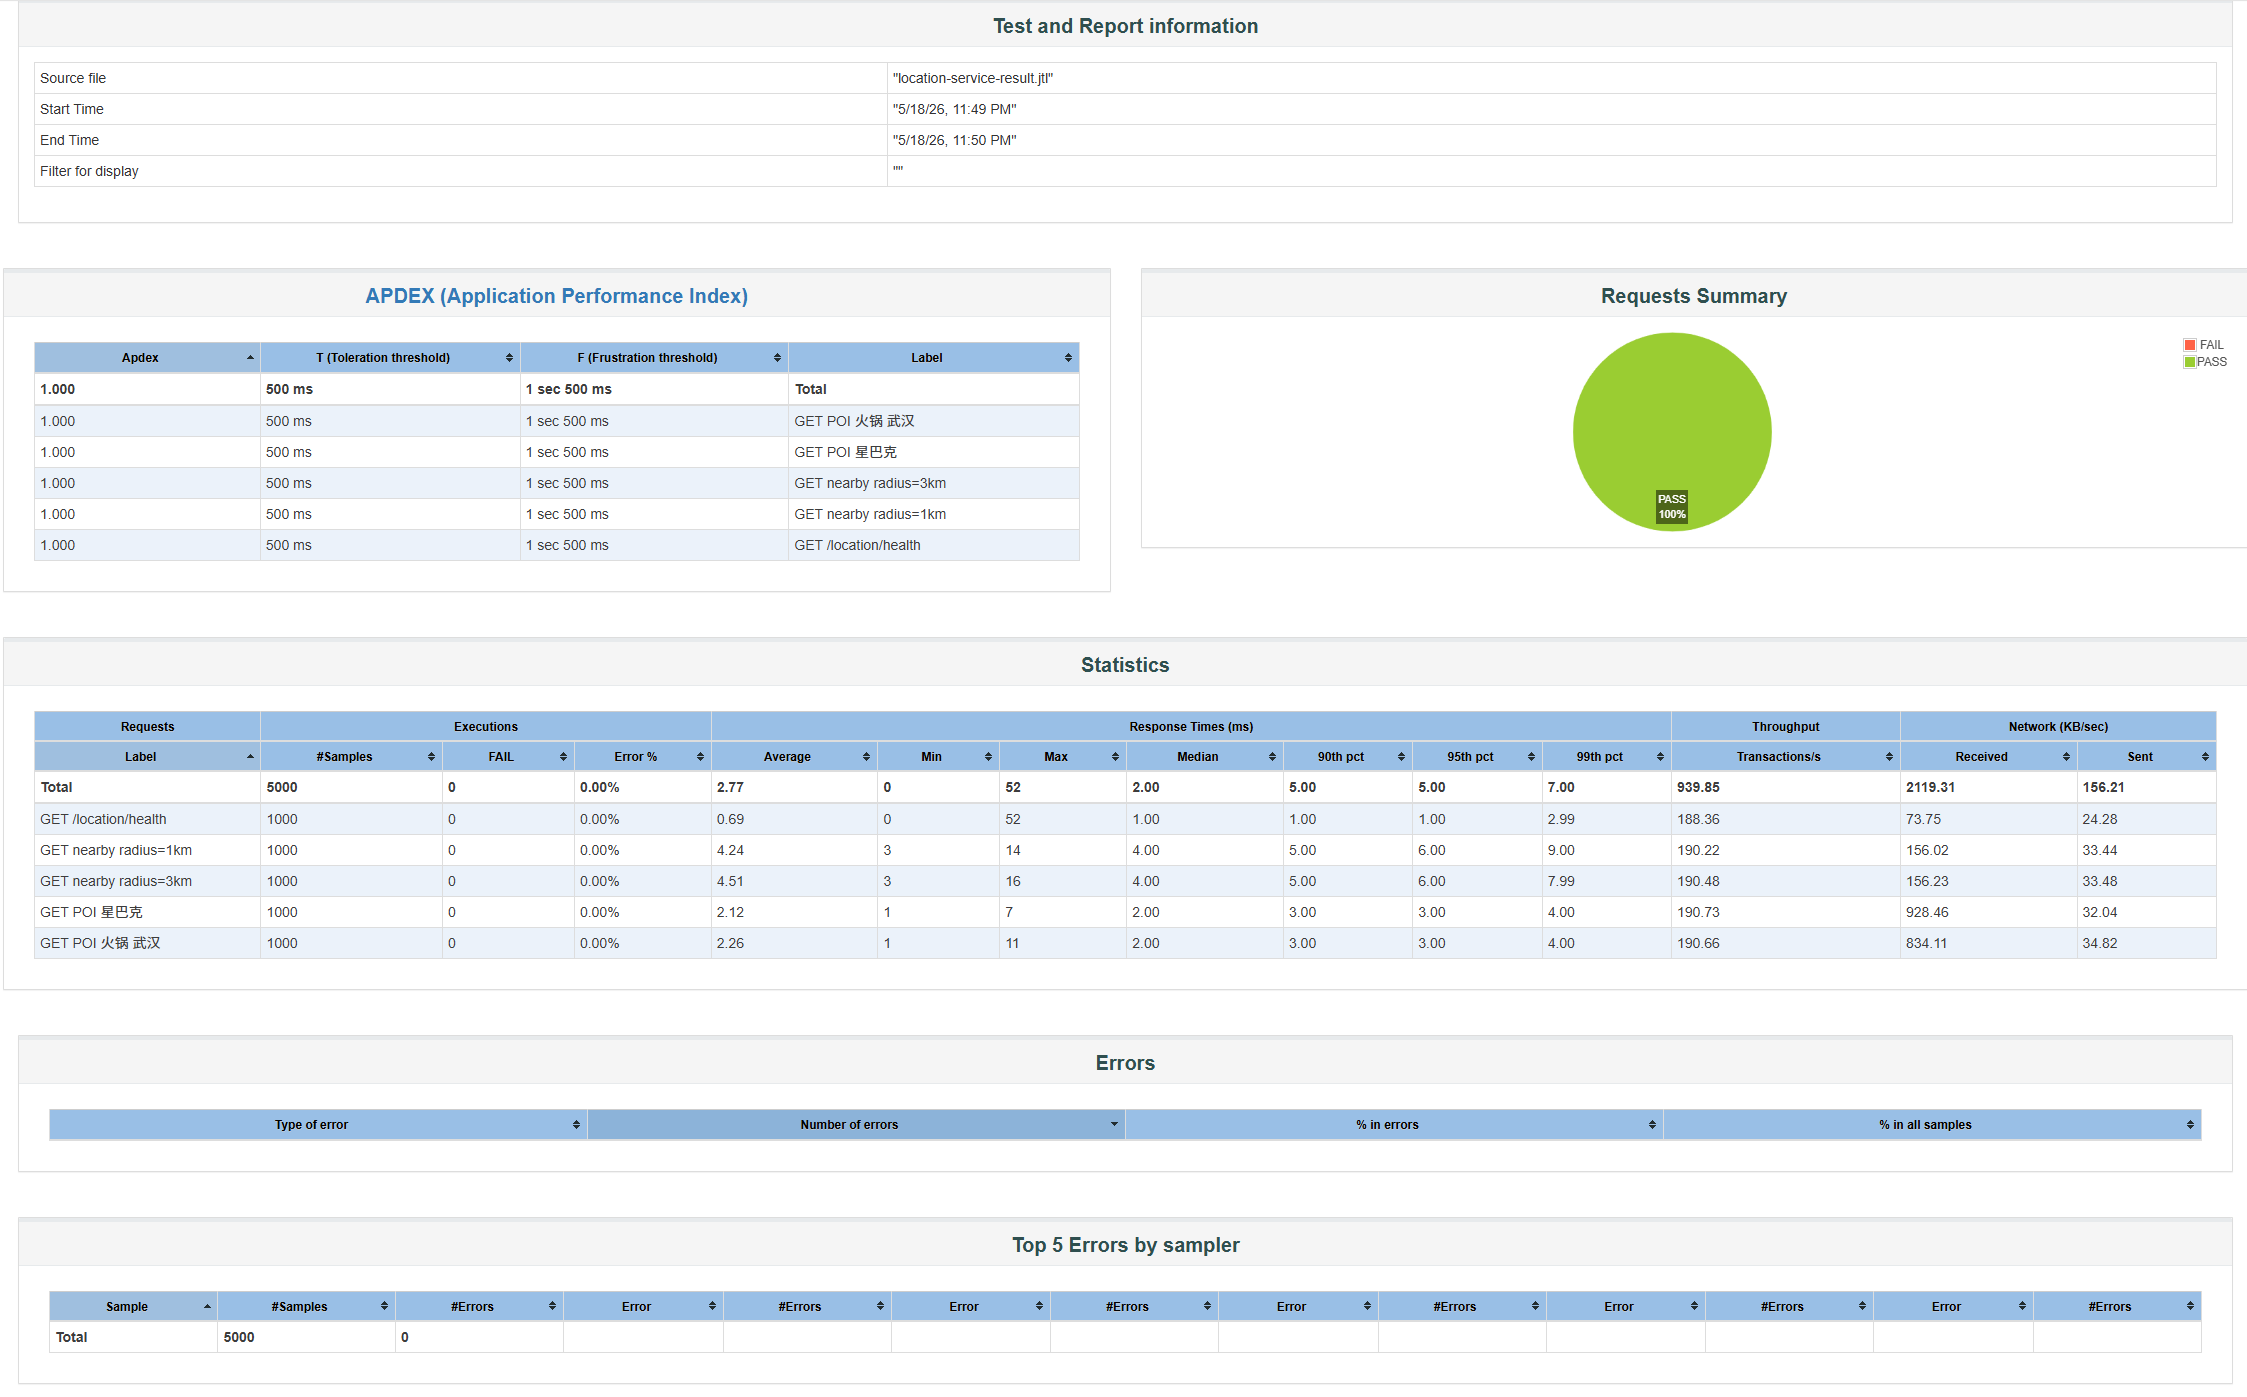
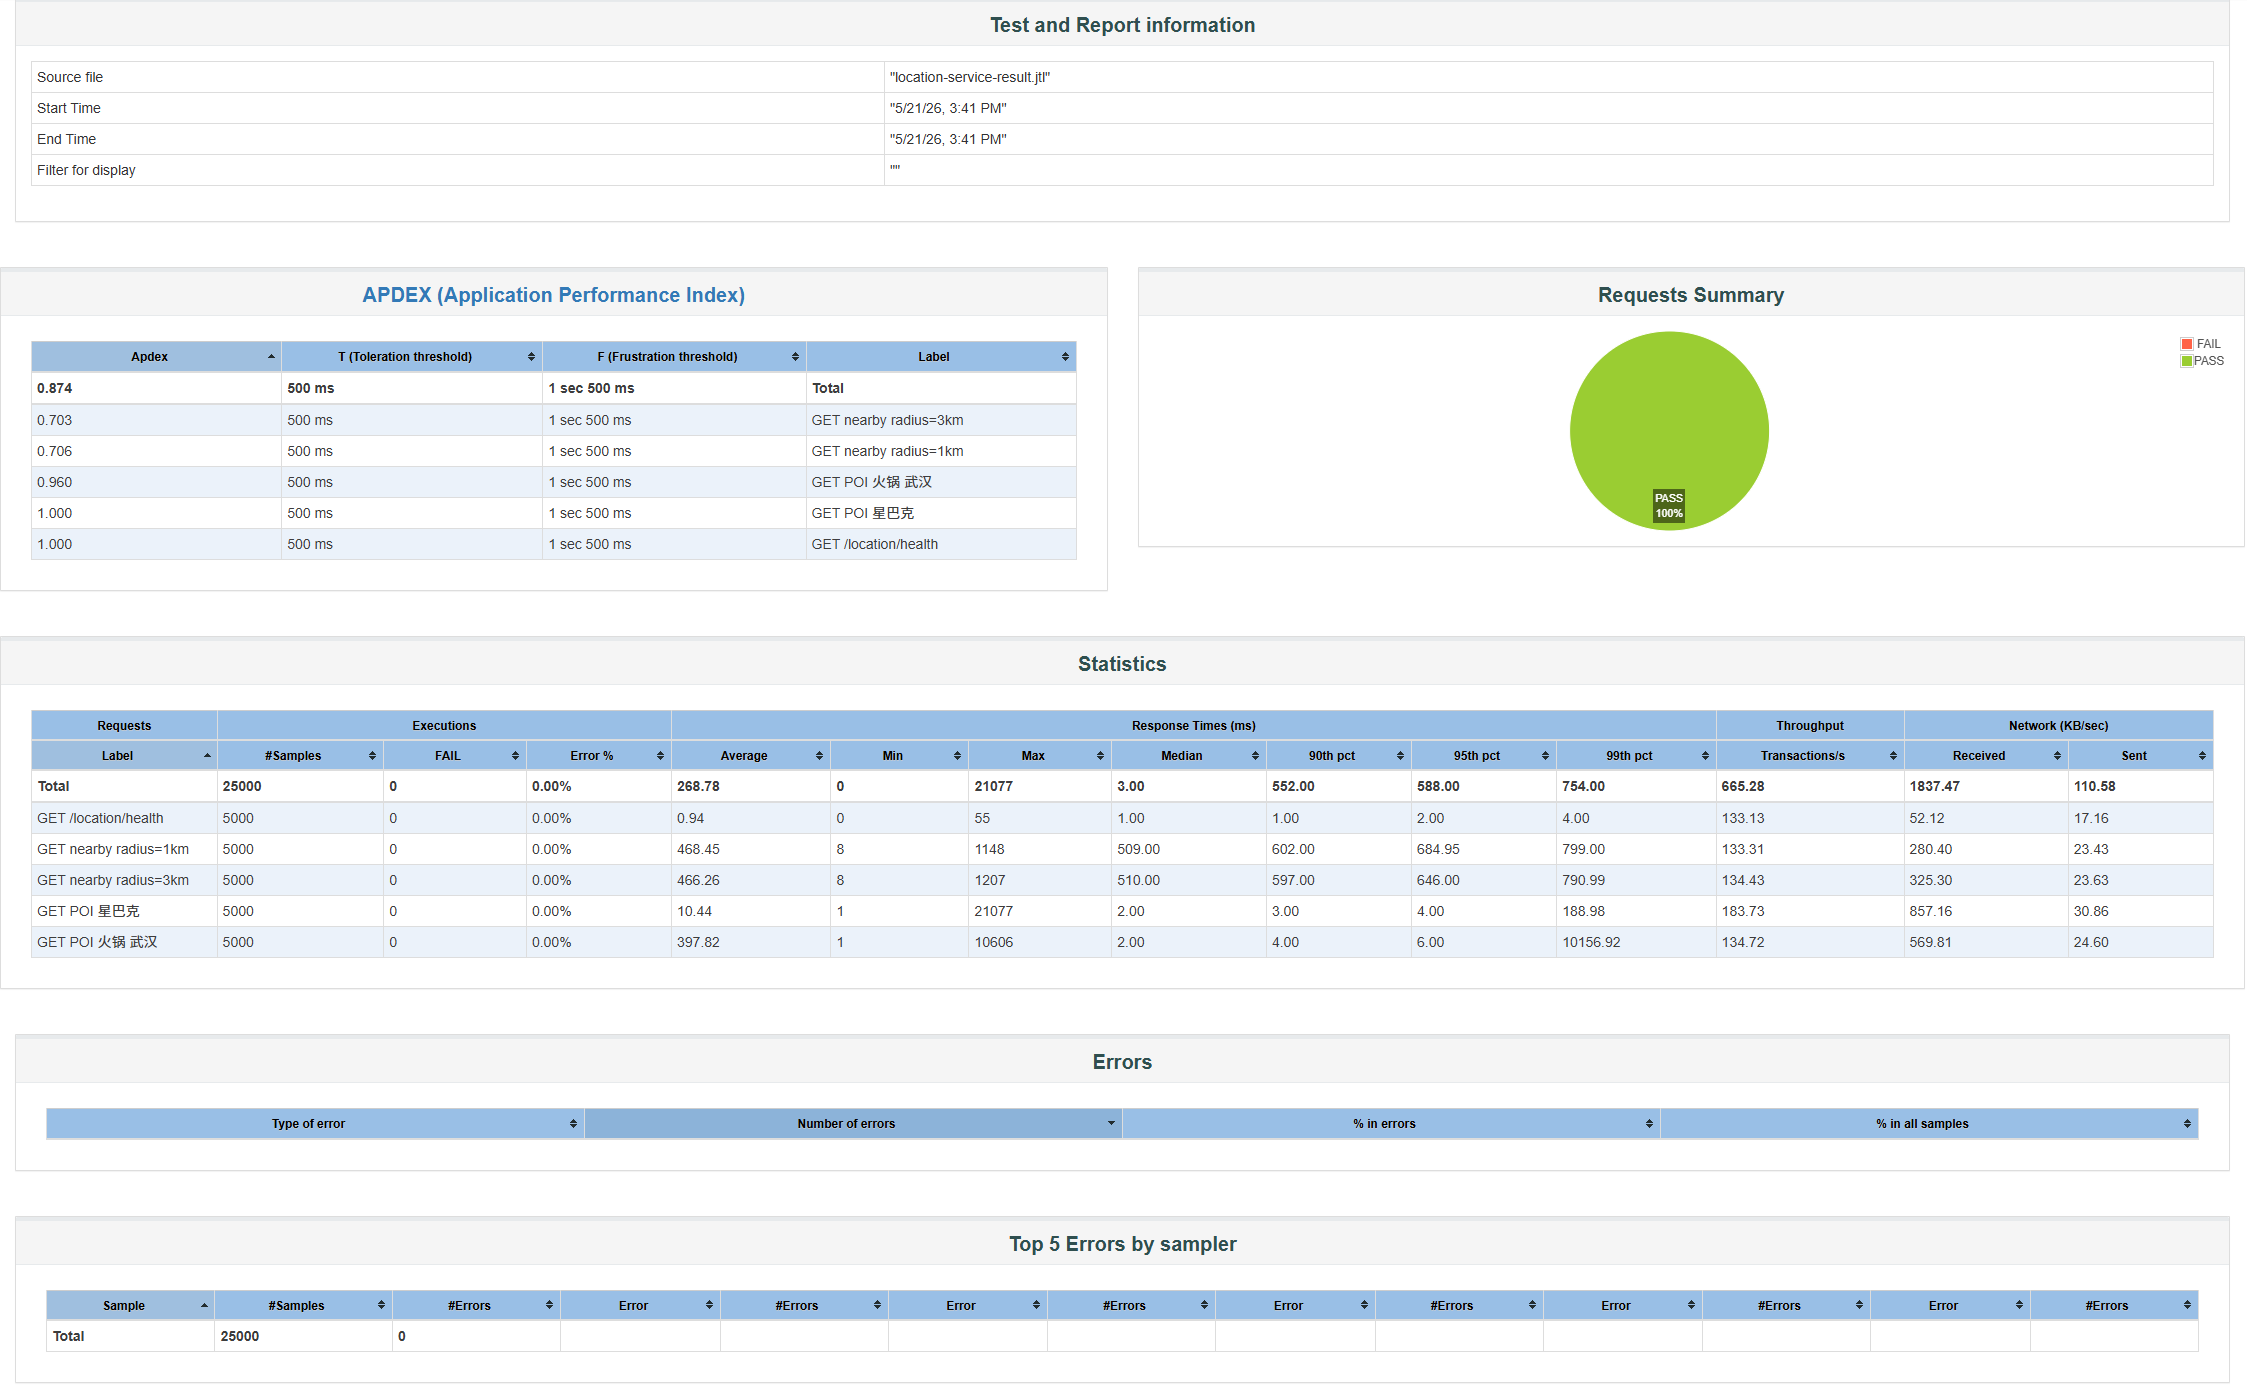
location模块jmeter重新测试200线程

diff --git a/jmeter/locationservice-report/content/js/dashboard.js b/jmeter/locationservice-report/content/js/dashboard.js
@@ -173,7 +173,7 @@ $(document).ready(function() {
     });
 
     // Creates APDEX table
-    createTable($("#apdexTable"), {"supportsControllersDiscrimination": true, "overall": {"data": [1.0, 500, 1500, "Total"], "isController": false}, "titles": ["Apdex", "T (Toleration threshold)", "F (Frustration threshold)", "Label"], "items": [{"data": [1.0, 500, 1500, "GET POI 火锅 武汉"], "isController": false}, {"data": [1.0, 500, 1500, "GET POI 星巴克"], "isController": false}, {"data": [1.0, 500, 1500, "GET nearby radius=3km"], "isController": false}, {"data": [1.0, 500, 1500, "GET nearby radius=1km"], "isController": false}, {"data": [1.0, 500, 1500, "GET /location/health"], "isController": false}]}, function(index, item){
+    createTable($("#apdexTable"), {"supportsControllersDiscrimination": true, "overall": {"data": [0.87388, 500, 1500, "Total"], "isController": false}, "titles": ["Apdex", "T (Toleration threshold)", "F (Frustration threshold)", "Label"], "items": [{"data": [0.96, 500, 1500, "GET POI 火锅 武汉"], "isController": false}, {"data": [0.9996, 500, 1500, "GET POI 星巴克"], "isController": false}, {"data": [0.7034, 500, 1500, "GET nearby radius=3km"], "isController": false}, {"data": [0.7064, 500, 1500, "GET nearby radius=1km"], "isController": false}, {"data": [1.0, 500, 1500, "GET /location/health"], "isController": false}]}, function(index, item){
         switch(index){
             case 0:
                 item = item.toFixed(3);
@@ -187,7 +187,7 @@ $(document).ready(function() {
     }, [[0, 0]], 3);
 
     // Create statistics table
-    createTable($("#statisticsTable"), {"supportsControllersDiscrimination": true, "overall": {"data": ["Total", 5000, 0, 0.0, 2.767000000000005, 0, 52, 2.0, 5.0, 5.0, 7.0, 939.8496240601504, 2119.3135426456765, 156.21328712406014], "isController": false}, "titles": ["Label", "#Samples", "FAIL", "Error %", "Average", "Min", "Max", "Median", "90th pct", "95th pct", "99th pct", "Transactions/s", "Received", "Sent"], "items": [{"data": ["GET POI 火锅 武汉", 1000, 0, 0.0, 2.2639999999999985, 1, 11, 2.0, 3.0, 3.0, 4.0, 190.65776930409913, 834.1080046472831, 34.817385605338416], "isController": false}, {"data": ["GET POI 星巴克", 1000, 0, 0.0, 2.1249999999999973, 1, 7, 2.0, 3.0, 3.0, 4.0, 190.7304978065993, 928.4619075433911, 32.03676330345222], "isController": false}, {"data": ["GET nearby radius=3km", 1000, 0, 0.0, 4.511999999999992, 3, 16, 4.0, 5.0, 6.0, 7.990000000000009, 190.47619047619045, 156.2295386904762, 33.482142857142854], "isController": false}, {"data": ["GET nearby radius=1km", 1000, 0, 0.0, 4.244999999999993, 3, 14, 4.0, 5.0, 6.0, 9.0, 190.22256039566292, 156.02002389670915, 33.437559444550125], "isController": false}, {"data": ["GET /location/health", 1000, 0, 0.0, 0.6890000000000001, 0, 52, 1.0, 1.0, 1.0, 2.990000000000009, 188.35938971557732, 73.74711574684498, 24.280702580523638], "isController": false}]}, function(index, item){
+    createTable($("#statisticsTable"), {"supportsControllersDiscrimination": true, "overall": {"data": ["Total", 25000, 0, 0.0, 268.78240000000125, 0, 21077, 3.0, 552.0, 588.0, 754.0, 665.2828782798446, 1837.4696256785885, 110.57729090159135], "isController": false}, "titles": ["Label", "#Samples", "FAIL", "Error %", "Average", "Min", "Max", "Median", "90th pct", "95th pct", "99th pct", "Transactions/s", "Received", "Sent"], "items": [{"data": ["GET POI 火锅 武汉", 5000, 0, 0.0, 397.81579999999957, 1, 10606, 2.0, 4.0, 6.0, 10156.919999999998, 134.72005173249988, 569.8119044952714, 24.60219694724363], "isController": false}, {"data": ["GET POI 星巴克", 5000, 0, 0.0, 10.440200000000026, 1, 21077, 2.0, 3.0, 4.0, 188.97999999999956, 183.72896303373264, 857.1649415282576, 30.86072425957228], "isController": false}, {"data": ["GET nearby radius=3km", 5000, 0, 0.0, 466.2638000000007, 8, 1207, 510.0, 597.0, 646.0, 790.9899999999998, 134.43028445448192, 325.29568886278696, 23.630323439264394], "isController": false}, {"data": ["GET nearby radius=1km", 5000, 0, 0.0, 468.4488000000006, 8, 1148, 509.0, 602.0, 684.9499999999998, 799.0, 133.30844908950328, 280.4027623177007, 23.433125816514252], "isController": false}, {"data": ["GET /location/health", 5000, 0, 0.0, 0.9433999999999996, 0, 55, 1.0, 1.0, 2.0, 4.0, 133.1309742524696, 52.11900827409005, 17.161414649732407], "isController": false}]}, function(index, item){
         switch(index){
             // Errors pct
             case 3:
@@ -228,7 +228,7 @@ $(document).ready(function() {
     }, [[1, 1]]);
 
         // Create top5 errors by sampler
-    createTable($("#top5ErrorsBySamplerTable"), {"supportsControllersDiscrimination": false, "overall": {"data": ["Total", 5000, 0, "", "", "", "", "", "", "", "", "", ""], "isController": false}, "titles": ["Sample", "#Samples", "#Errors", "Error", "#Errors", "Error", "#Errors", "Error", "#Errors", "Error", "#Errors", "Error", "#Errors"], "items": [{"data": [], "isController": false}, {"data": [], "isController": false}, {"data": [], "isController": false}, {"data": [], "isController": false}, {"data": [], "isController": false}]}, function(index, item){
+    createTable($("#top5ErrorsBySamplerTable"), {"supportsControllersDiscrimination": false, "overall": {"data": ["Total", 25000, 0, "", "", "", "", "", "", "", "", "", ""], "isController": false}, "titles": ["Sample", "#Samples", "#Errors", "Error", "#Errors", "Error", "#Errors", "Error", "#Errors", "Error", "#Errors", "Error", "#Errors"], "items": [{"data": [], "isController": false}, {"data": [], "isController": false}, {"data": [], "isController": false}, {"data": [], "isController": false}, {"data": [], "isController": false}]}, function(index, item){
         return item;
     }, [[0, 0]], 0);
 

diff --git a/jmeter/locationservice-report/content/pages/CustomsGraphs.html b/jmeter/locationservice-report/content/pages/CustomsGraphs.html
@@ -112,11 +112,11 @@
                                 </tr>
                                 <tr>
                                     <td>Start Time:</td>
-                                    <td>"5/18/26, 11:49 PM"</td>
+                                    <td>"5/21/26, 3:41 PM"</td>
                                 </tr>
                                 <tr>
                                     <td>End Time:</td>
-                                    <td>"5/18/26, 11:50 PM"</td>
+                                    <td>"5/21/26, 3:41 PM"</td>
                                 </tr>
                                     <tr>
                                         <td>Filter for display:</td>

diff --git a/jmeter/locationservice-report/content/pages/OverTime.html b/jmeter/locationservice-report/content/pages/OverTime.html
@@ -160,11 +160,11 @@
                             </tr>
                             <tr>
                                 <td>Start Time:</td>
-                                <td>"5/18/26, 11:49 PM"</td>
+                                <td>"5/21/26, 3:41 PM"</td>
                             </tr>
                             <tr>
                                 <td>End Time:</td>
-                                <td>"5/18/26, 11:50 PM"</td>
+                                <td>"5/21/26, 3:41 PM"</td>
                             </tr>
                                 <tr>
                                     <td>Filter for display:</td>

diff --git a/jmeter/locationservice-report/content/pages/ResponseTimes.html b/jmeter/locationservice-report/content/pages/ResponseTimes.html
@@ -129,11 +129,11 @@
                             </tr>
                             <tr>
                                 <td>Start Time:</td>
-                                <td>"5/18/26, 11:49 PM"</td>
+                                <td>"5/21/26, 3:41 PM"</td>
                             </tr>
                             <tr>
                                 <td>End Time:</td>
-                                <td>"5/18/26, 11:50 PM"</td>
+                                <td>"5/21/26, 3:41 PM"</td>
                             </tr>
                                 <tr>
                                     <td>Filter for display:</td>

diff --git a/jmeter/locationservice-report/content/pages/Throughput.html b/jmeter/locationservice-report/content/pages/Throughput.html
@@ -129,11 +129,11 @@
                             </tr>
                             <tr>
                                 <td>Start Time:</td>
-                                <td>"5/18/26, 11:49 PM"</td>
+                                <td>"5/21/26, 3:41 PM"</td>
                             </tr>
                             <tr>
                                 <td>End Time:</td>
-                                <td>"5/18/26, 11:50 PM"</td>
+                                <td>"5/21/26, 3:41 PM"</td>
                             </tr>
                                 <tr>
                                     <td>Filter for display:</td>

diff --git a/jmeter/locationservice-report/index.html b/jmeter/locationservice-report/index.html
@@ -94,11 +94,11 @@
                             </tr>
                             <tr>
                                 <td>Start Time</td>
-                                <td>"5/18/26, 11:49 PM"</td>
+                                <td>"5/21/26, 3:41 PM"</td>
                             </tr>
                             <tr>
                                 <td>End Time</td>
-                                <td>"5/18/26, 11:50 PM"</td>
+                                <td>"5/21/26, 3:41 PM"</td>
                             </tr>
                                 <tr>
                                     <td>Filter for display</td>